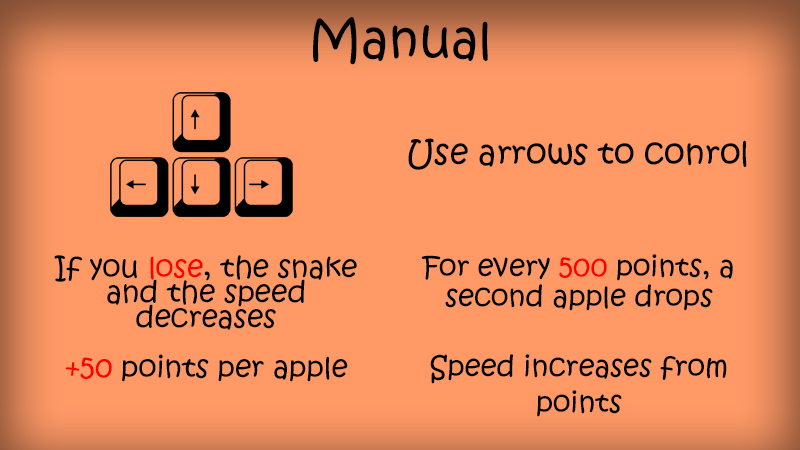
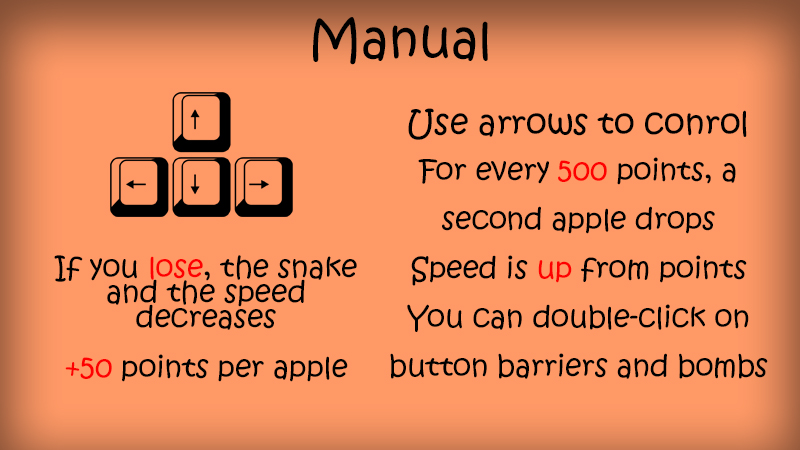
Update 2.0 : Added bombs reworked Manual and Rules

diff --git a/Game.js b/Game.js
@@ -46,7 +46,9 @@ var
 	button = document.getElementsByClassName('buttons'), // список кнопок 
 	barriers = false, // барьеры 
 	close1 = document.getElementById('close1'), // значки закрытия картинок
-	close2 = document.getElementById('close2');
+	close2 = document.getElementById('close2'),
+	danger = false, // нужны ли бомбы
+	bombs = []; // бомбы
 
 // *сама игра	
 function main() {
@@ -67,6 +69,8 @@ function main() {
 
 	// вывод барьера
 	ShowBarriers(barriers);
+	// вывод бомбочек
+	PrintBombs(danger);
 
 	// движение головы
 	px += xs;
@@ -113,7 +117,7 @@ function main() {
 			// условие пересечения, что квадрат хвоста лежит внутри квадрата головы
 			if (
 				(px < (stail[i].x + pw) && (px + pw) > stail[i].x
-					&& py < (stail[i].y + ph) && (py + ph) > stail[i].y) || LoseByBarriers(barriers)
+					&& py < (stail[i].y + ph) && (py + ph) > stail[i].y) || LoseByBarriers(barriers) || LoseByBombs(danger)
 			) {
 				// есть пересечение
 				tail = 10;
@@ -189,6 +193,19 @@ function spawn() {
 		) {
 			spawn();
 			return;
+		}
+	}
+
+	// проверка спавна на бомбе
+	if (danger) {
+		for (let i = 0; i < bombs.length; i++) {
+			if (
+				newapple.x < (bombs[i].x + pw) && (newapple.x + aw) > bombs[i].x
+				&& newapple.y < (bombs[i].y + ph) && (newapple.y + ah) > bombs[i].y
+			) {
+				spawn();
+				return;
+			}
 		}
 	}
 
@@ -318,7 +335,7 @@ function Buttons() {
 	// пауза
 
 	// мануал
-	button[6].onclick = function () {
+	button[7].onclick = function () {
 		document.getElementsByClassName('background')[0].style.display = 'block';
 		document.getElementById('image1').style.display = 'block';
 	};
@@ -329,7 +346,7 @@ function Buttons() {
 	}
 
 	//правила игры
-	button[7].onclick = function () {
+	button[8].onclick = function () {
 		document.getElementsByClassName('background')[0].style.display = 'block';
 		document.getElementById('image2').style.display = 'block';
 	};
@@ -343,9 +360,30 @@ function Buttons() {
 	button[4].onclick = function () {
 		barriers = true;
 	};
-	// очищение поля от барьеров
-	button[5].onclick = function () {
+
+	// отключение
+	button[4].ondblclick = function () {
 		barriers = false;
+	};
+
+	//Добавление бомб
+	button[5].onclick = function () {
+		danger = true;
+		SpawnBombs(10);
+	}
+
+	// новые бомбочки
+	button[5].ondblclick = function () {
+		bombs.splice(0, bombs.length);
+		SpawnBombs(10);
+		danger = true;
+	}
+
+	// очищение поля от барьеров и бомб
+	button[6].onclick = function () {
+		barriers = false;
+		danger = false;
+		bombs.splice(0, bombs.length);
 	};
 
 }
@@ -365,10 +403,23 @@ function ShowBarriers(barriers) {
 	}
 }
 
-// условие поражения от барьера
+// !условие поражения от барьера
 function LoseByBarriers(barriers) {
 	if (barriers && ((px + pw > canv.width - 20) || (py + ph > canv.height - 20) || (py < 86) || (px < 20))) {
 		return true;
+	}
+	return false;
+}
+
+//! условие поражения от бомб
+function LoseByBombs(danger) {
+	for (let boom = 0; boom < bombs.length; boom++) {
+		if (danger
+			&& px < (bombs[boom].x + aw) && (px + pw) > bombs[boom].x
+			&& py < (bombs[boom].y + ah) && (py + ph) > bombs[boom].y
+		) {
+			return true;
+		}
 	}
 	return false;
 }
@@ -378,4 +429,57 @@ function Paused() {
 	con.fillStyle = 'red';
 	con.font = "80px Times New Roman";
 	con.fillText("GAME PAUSED", canv.width - 1000, canv.height - 100);
+}
+
+//бомбы
+function SpawnBombs(count) {
+	var newbomb = {
+		x: ~~(Math.random() * (canv.width - 40)),
+		y: ~~(Math.random() * (canv.height - 40))
+	};
+
+	// проверка на змее и в пределах поля
+	if ((newbomb.x < 20) || (newbomb.y < 85) ||
+		(px < (newbomb.x + aw) && (px + pw) > newbomb.x
+			&& py < (newbomb.y + ah) && (py + ph) > newbomb.y)) {
+		SpawnBombs(count);
+		return;
+	}
+
+	// проверка на яблоке
+	for (var ap = 0; ap < apples.length; ap++) {
+		if (
+			newbomb.x < (apples[ap].x + aw) && (newbomb.x + pw) > apples[ap].x
+			&& newbomb.y < (apples[ap].y + ah) && (newbomb.y + ph) > apples[ap].y
+		) {
+			SpawnBombs(count);
+			return;
+		}
+	}
+
+	// между бомбами примерно 40 - 60 пикселей
+	for (var i = 0; i < bombs.length; i++) {
+		if ((Math.abs(newbomb.x - bombs[i].x) < 60) || (Math.abs(newbomb.y - bombs[i].y) < 60)) {
+			SpawnBombs(count);
+			return;
+		}
+	}
+
+	bombs.push(newbomb);
+
+	if (bombs.length < count) {
+		SpawnBombs(count);
+		return;
+	}
+}
+
+function PrintBombs(danger) {
+	if (danger) { //бомбочки
+		for (var i = 0; i < bombs.length; i++) {
+			con.fillStyle = clrb;
+			con.fillRect(bombs[i].x, bombs[i].y, pw, ph);
+			con.fillStyle = 'red';
+			con.fillRect(bombs[i].x + 5, bombs[i].y + 5, 10, 10);
+		}
+	}
 }

diff --git a/index.html b/index.html
@@ -8,7 +8,7 @@
 	<link rel="shortcut icon" href="492snake_100855.ico" type="image/x-icon">
 </head>
 
-<!-- TODO: сделать кнопки и список более красивыми -->
+<!-- TODO: сделать кнопки и список более красивыми добавить бомбы -->
 
 <body>
 	<canvas id="snake" width="1400px" height="715px"></canvas>
@@ -23,7 +23,8 @@
 			<h1 class="text">Settings</h1>
 			<p><input class="buttons" type="button" value="Pause" title="Playing"></p>
 			<p><input class="buttons" type="button" value="Barriers"></p>
-			<p><input type="button" value="Clear" class="buttons"></p>
+			<p><input type="button" value="Add Bombs" class="buttons" title="Double CLICK!!!"></p>
+			<p><input type="button" value="Clear All" class="buttons"></p>
 		</div>
 		<div id="button_manual">
 			<h1 class="text">Rules</h1>

diff --git a/Snake.css b/Snake.css
@@ -86,10 +86,10 @@ canvas{
 
 /* стиль текста на странице */
 .text{
-	font-size: 20px;
 	margin-bottom: 0px;
 	color: white;
-	font-weight: bolder;
+	font: 20px Impact;
+	text-decoration: underline;
 }
 
 /* стиль картинки (мануала) */
